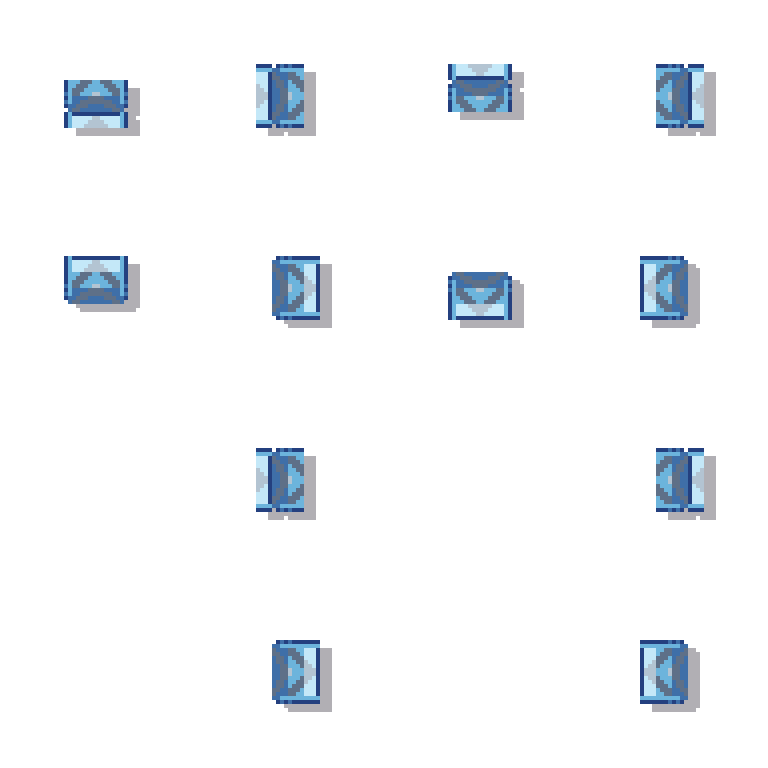
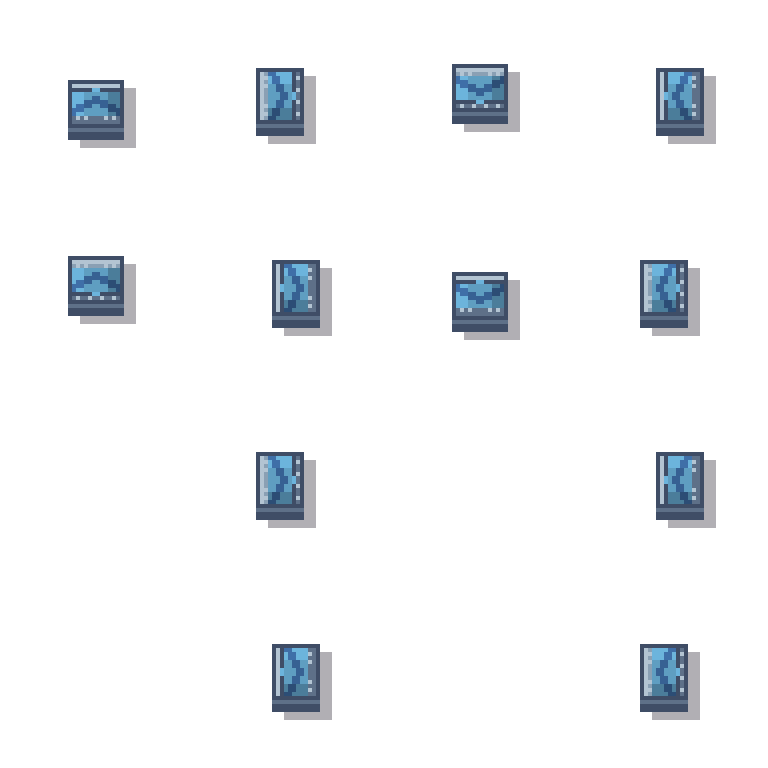
Pixel : souterrains en voûte aux couleurs des convoyeurs, d'après Factorio

diff --git a/pixel/pillow/belt_structures.py b/pixel/pillow/belt_structures.py
@@ -76,66 +76,73 @@ def add_face(img, mask):
 
 
 # ---------------------------------------------------------------- souterrain
-# Dessin relevé pixel par pixel sur la capture de référence (16 px de large, 13 de haut) : entrée d'un souterrain
-# dont le flux monte. Le toit (tan, petit chevron clair) est du côté enterré ; devant, la rampe porte des chevrons
-# emboîtés (acier, orange, rouge) dans un cadre orange à contour prune.
-# m contour, o cadre / remplissage, r remplissage foncé, t toit, l clair, s acier, w reflet, . transparent
-_GRID = [
-    "ldmommmmmmmmmmmmomgg",
-    "lsmotttttlltttttomGG",
-    "lsmottttllllttttomGG",
-    "lsmotttlllllltttomGG",
-    "lsmooosssoosssooomGG",
-    "lsmoosssoooosssoomGG",
-    "ssmosssoooooosssomGG",
-    "lsrossooollooossorGG",
-    "lsmorrrrssssrrrromGG",
-    "lsrorrssssssssrrorGG",
-    "lsmrrsssrrrrsssrrmGG",
-    "lsGrssrrrrrrrrssrGGG",
-]
-ENTRANCE = [row[2:18] for row in _GRID]       # 12 rangées x 16 colonnes
-ROOF_ROWS = 4                                  # rangées du toit (contour compris)
-UG_LEN = len(ENTRANCE)
+# Capot en voûte (demi-cylindre couché dans le sens du flux) : plaque bombée de la teinte vive du convoyeur du même niveau (chevrons de sa teinte foncée),
+# chevrons qui suivent le flux, anneau d'acier à rivets à chaque bout, face avant sombre (hauteur) et ombre portée.
+UG_LEN = 12        # longueur du capot dans le sens du flux (px)
+UG_WIDTH = 14      # largeur en travers (px)
+FACE = 3           # hauteur de la face avant (px)
 
 
-def ug_colors(tier):
-    """Teintes de la capture par niveau : cadre, remplissage foncé, toit, contour (acier inchangé)."""
-    base = {"m": P["maroon"], "o": P["orange"], "r": P["red"], "t": P["tan"], "l": P["steel_light"], "s": P["steel"],
-            "w": P["white"]}
-    if tier == "red":
-        base.update(m=hx("5a2030"), o=BELT["red"][0], r=BELT["red"][1], t=hx("f4b8a8"))
-    elif tier == "blue":
-        base.update(m=P["blue_out"], o=BELT["blue"][0], r=BELT["blue"][1], t=hx("c4e8f8"))
-    return base
+def tile_coords(direction, x, y):
+    """(s, lat) d'un pixel (x, y) de la case : s avance dans le sens du flux (0 à 16), lat va en travers (-8 à 8)."""
+    px, py = x + 0.5, y + 0.5
+    return {"E": (px, py - 8), "W": (belt.T - px, py - 8), "N": (belt.T - py, px - 8), "S": (py, px - 8)}[direction]
 
 
-def ug_art(entering, tier):
-    """Dessin 16 x 12 pour un flux qui monte : toit en haut si on entre, en bas si on sort. Les chevrons montent toujours."""
-    col = ug_colors(tier)
-    rows = ENTRANCE if entering else ENTRANCE[ROOF_ROWS:] + ENTRANCE[:ROOF_ROWS]
-    img = Image.new("RGBA", (16, UG_LEN), (0, 0, 0, 0))
-    for y, row in enumerate(rows):
-        for x, ch in enumerate(row):
-            if ch in col:
-                img.putpixel((x, y), col[ch])
-    return img
+def darken(c, f):
+    return (int(c[0] * f), int(c[1] * f), int(c[2] * f), c[3])
 
 
 def underground_cell(direction, entering, tier):
-    """Cellule de 48 x 48 px d'art ; la case occupe [16, 32[. Le dessin (16 x 12) est collé du côté enterré."""
-    art = ug_art(entering, tier)
-    # on tourne le dessin (flux vers le nord) vers la direction voulue
-    art = {"N": art, "E": art.rotate(-90, expand=True), "S": art.rotate(180), "W": art.rotate(90, expand=True)}[direction]
+    """Cellule de 48 x 48 px d'art ; la case occupe [16, 32[. Le capot est collé du côté enterré."""
+    light, dark = BELT[tier]
+    base = belt.BASE[tier]
+    horiz = direction in "EW"
     img = Image.new("RGBA", (48, 48), (0, 0, 0, 0))
-    w, h = art.size
-    fx, fy = FLOW[direction]
-    end = (fx, fy) if entering else (-fx, -fy)       # côté du bord enterré
-    x0 = 16 + (belt.T - w if end[0] > 0 else 0)
-    y0 = 16 + (belt.T - h if end[1] > 0 else 0)
-    img.alpha_composite(art, (x0, y0))
-    mask = img.getchannel("A").point(lambda v: 255 if v else 0)
-    return with_shadow(img, mask)
+    hood = Image.new("L", (48, 48), 0)
+    s0 = (belt.T - UG_LEN) if entering else 0
+    out_n = FLOW[direction] if entering else (-FLOW[direction][0], -FLOW[direction][1])   # normale du bout enterré
+    in_n = (-out_n[0], -out_n[1])                                                          # normale du bout côté tapis
+    for ty in range(belt.T):
+        for tx in range(belt.T):
+            s, lat = tile_coords(direction, tx, ty)
+            if not (s0 <= s < s0 + UG_LEN and abs(lat) < UG_WIDTH / 2):
+                continue
+            u = s - s0                                   # 0 à UG_LEN, dans le sens du flux
+            d_ug = (UG_LEN - u) if entering else u       # distance au bout enterré
+            d_belt = UG_LEN - d_ug
+            lat_abs = (ty + 0.5 - 8) if horiz else (tx + 0.5 - 8)    # axe transversal absolu : la lumière vient du haut gauche
+            x, y = tx + 16, ty + 16
+            hood.putpixel((x, y), 255)
+            if abs(lat) > UG_WIDTH / 2 - 1:
+                c = P["steel_dark"]                                    # flancs : contour
+            elif d_ug < 3:                                             # anneau côté enterré, plus épais
+                c = belt.shade(d_ug, out_n)
+                if d_ug >= 2 and (abs(lat) in (2.5, 4.5) or abs(lat) > 5.5):
+                    c = P["steel_light"] if abs(lat) in (2.5, 4.5) else c      # rivets
+            elif d_belt < 2:                                           # anneau côté tapis
+                c = belt.shade(d_belt, in_n)
+                if d_belt >= 1 and abs(lat) in (1.5, 4.5):
+                    c = P["steel_light"]                               # rivets
+            elif d_belt < 3:                                           # bouche : trait sombre avec un chevron du tapis qui entre
+                c = light if abs(lat) < 1.5 else P["steel_dark"]
+            else:
+                # surface bombée : plaque de la teinte vive du niveau, chevrons de la teinte foncée ; plus sombre sur le flanc
+                # opposé à la lumière
+                shade = 1.0 if lat_abs < -3 else 0.88 if lat_abs < 3 else 0.7
+                ph = (u + abs(lat) * 0.55) % 6
+                c = darken(dark, shade) if ph < 2 else darken(light, shade)
+            img.putpixel((x, y), c)
+    # hauteur : face avant sur FACE px sous le bord sud du capot
+    src = hood.copy()
+    for y in range(47):
+        for x in range(48):
+            if src.getpixel((x, y)) and not src.getpixel((x, y + 1)):
+                for k in range(1, FACE + 1):
+                    if y + k < 48 and not src.getpixel((x, y + k)):
+                        img.putpixel((x, y + k), P["steel"] if k == 1 else P["steel_dark"])
+                        hood.putpixel((x, y + k), 255)
+    return with_shadow(img, hood)
 
 
 def underground_sheet(tier):

diff --git a/pixel/STYLE.md b/pixel/STYLE.md
@@ -28,5 +28,5 @@ Référence pour tout sprite du mod pixel. Les couleurs vivent dans `pillow/pale
 - Voyant du moteur qui clignote : indique visuellement que la machine travaille. **[PROVISOIRE]**
 
 ## Structures de convoyeurs
-- Souterrain : capot de 16 x 12 px relevé sur la capture de référence de Bastien : toit tan avec un petit chevron clair du côté enterré, rampe de chevrons emboîtés (acier, orange, rouge) dans un cadre orange à contour prune. Orienté selon le flux, recoloré par niveau (rouge et bleu pour rapide et express) ; en sortie, la rampe est du côté de la case voisine. **[VALIDÉ comme direction, à juger en jeu]**
+- Souterrain : capot en voûte (demi-cylindre couché dans le sens du flux), 14 px de large sur 12 de long, d'après les souterrains de Factorio. Plaque bombée de la teinte vive du convoyeur du même niveau (jaune, rouge, bleu) avec des chevrons de sa teinte foncée, flanc opposé à la lumière plus sombre, anneau d'acier à rivets à chaque bout, petit chevron du tapis dans la bouche côté tapis, face avant sombre de 3 px et ombre portée. **[PROVISOIRE, à juger en jeu]**
 - Répartiteur : poteaux d'extrémité, cloison avec nez diviseur côté entrée, rail à trois engrenages (acier, moyeu orange) qui tournent, capots à chevrons de la couleur du niveau côté sortie, deux voyants qui clignotent en alternance. **[PROVISOIRE]**
